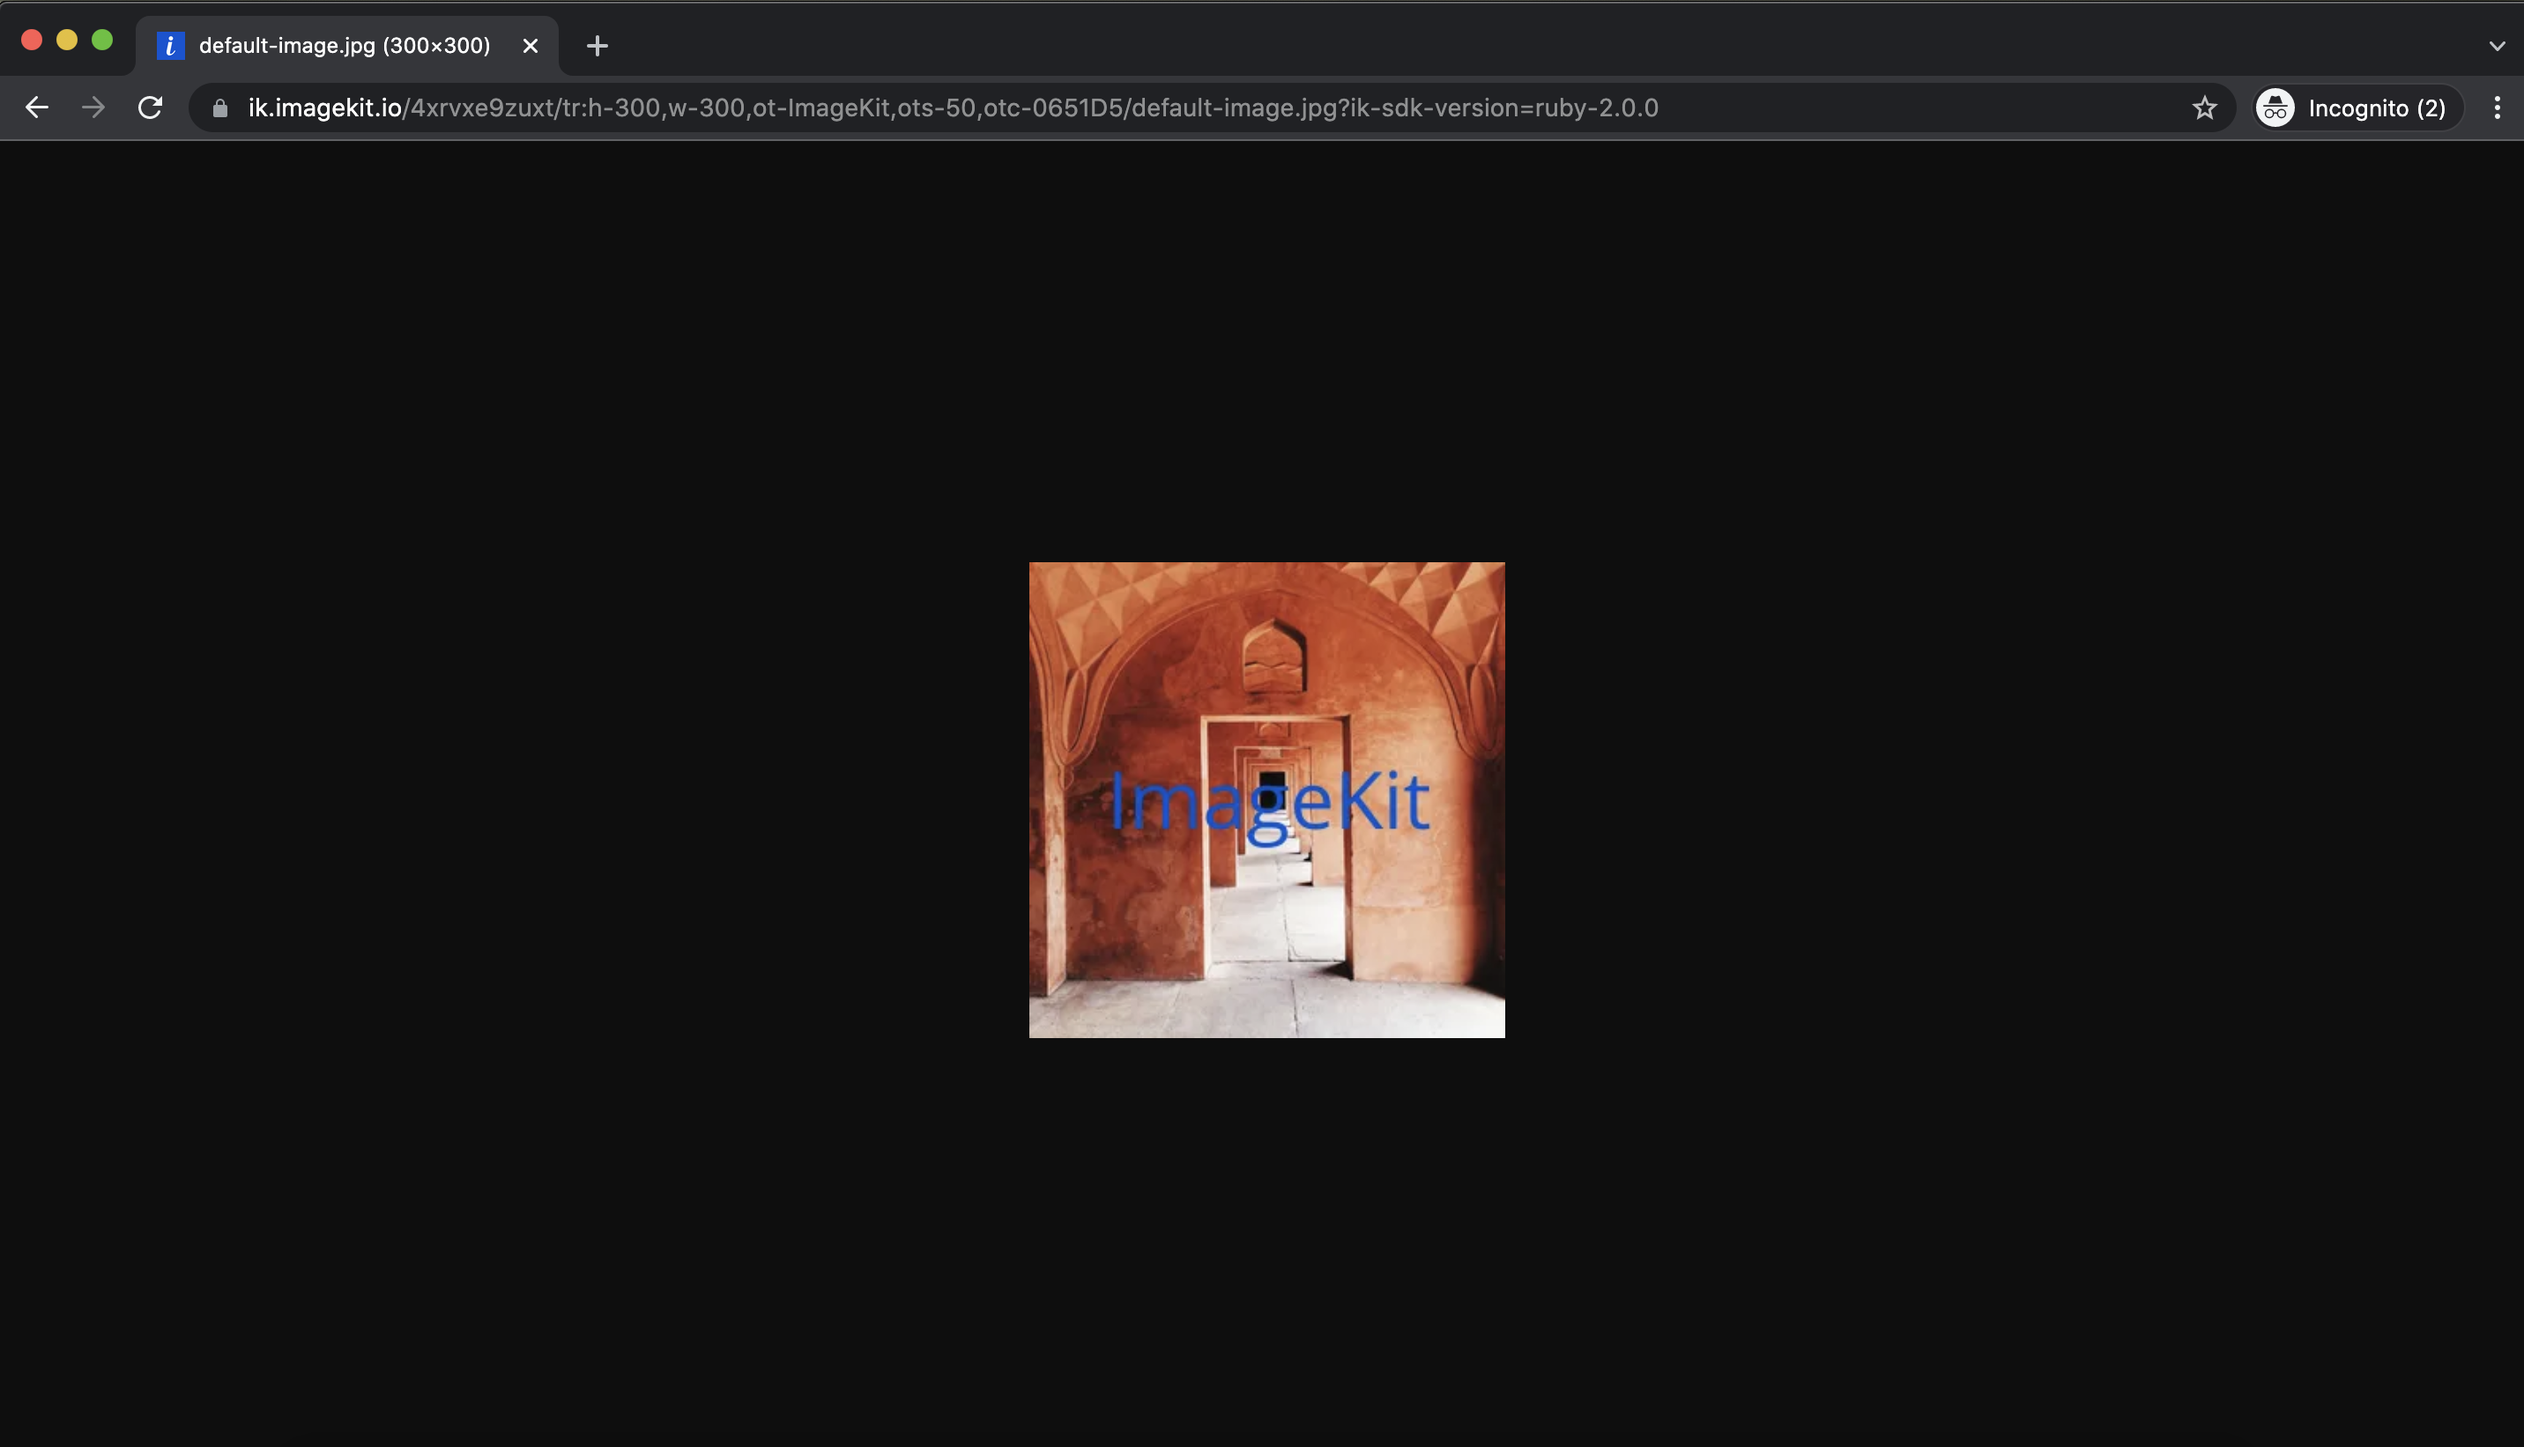
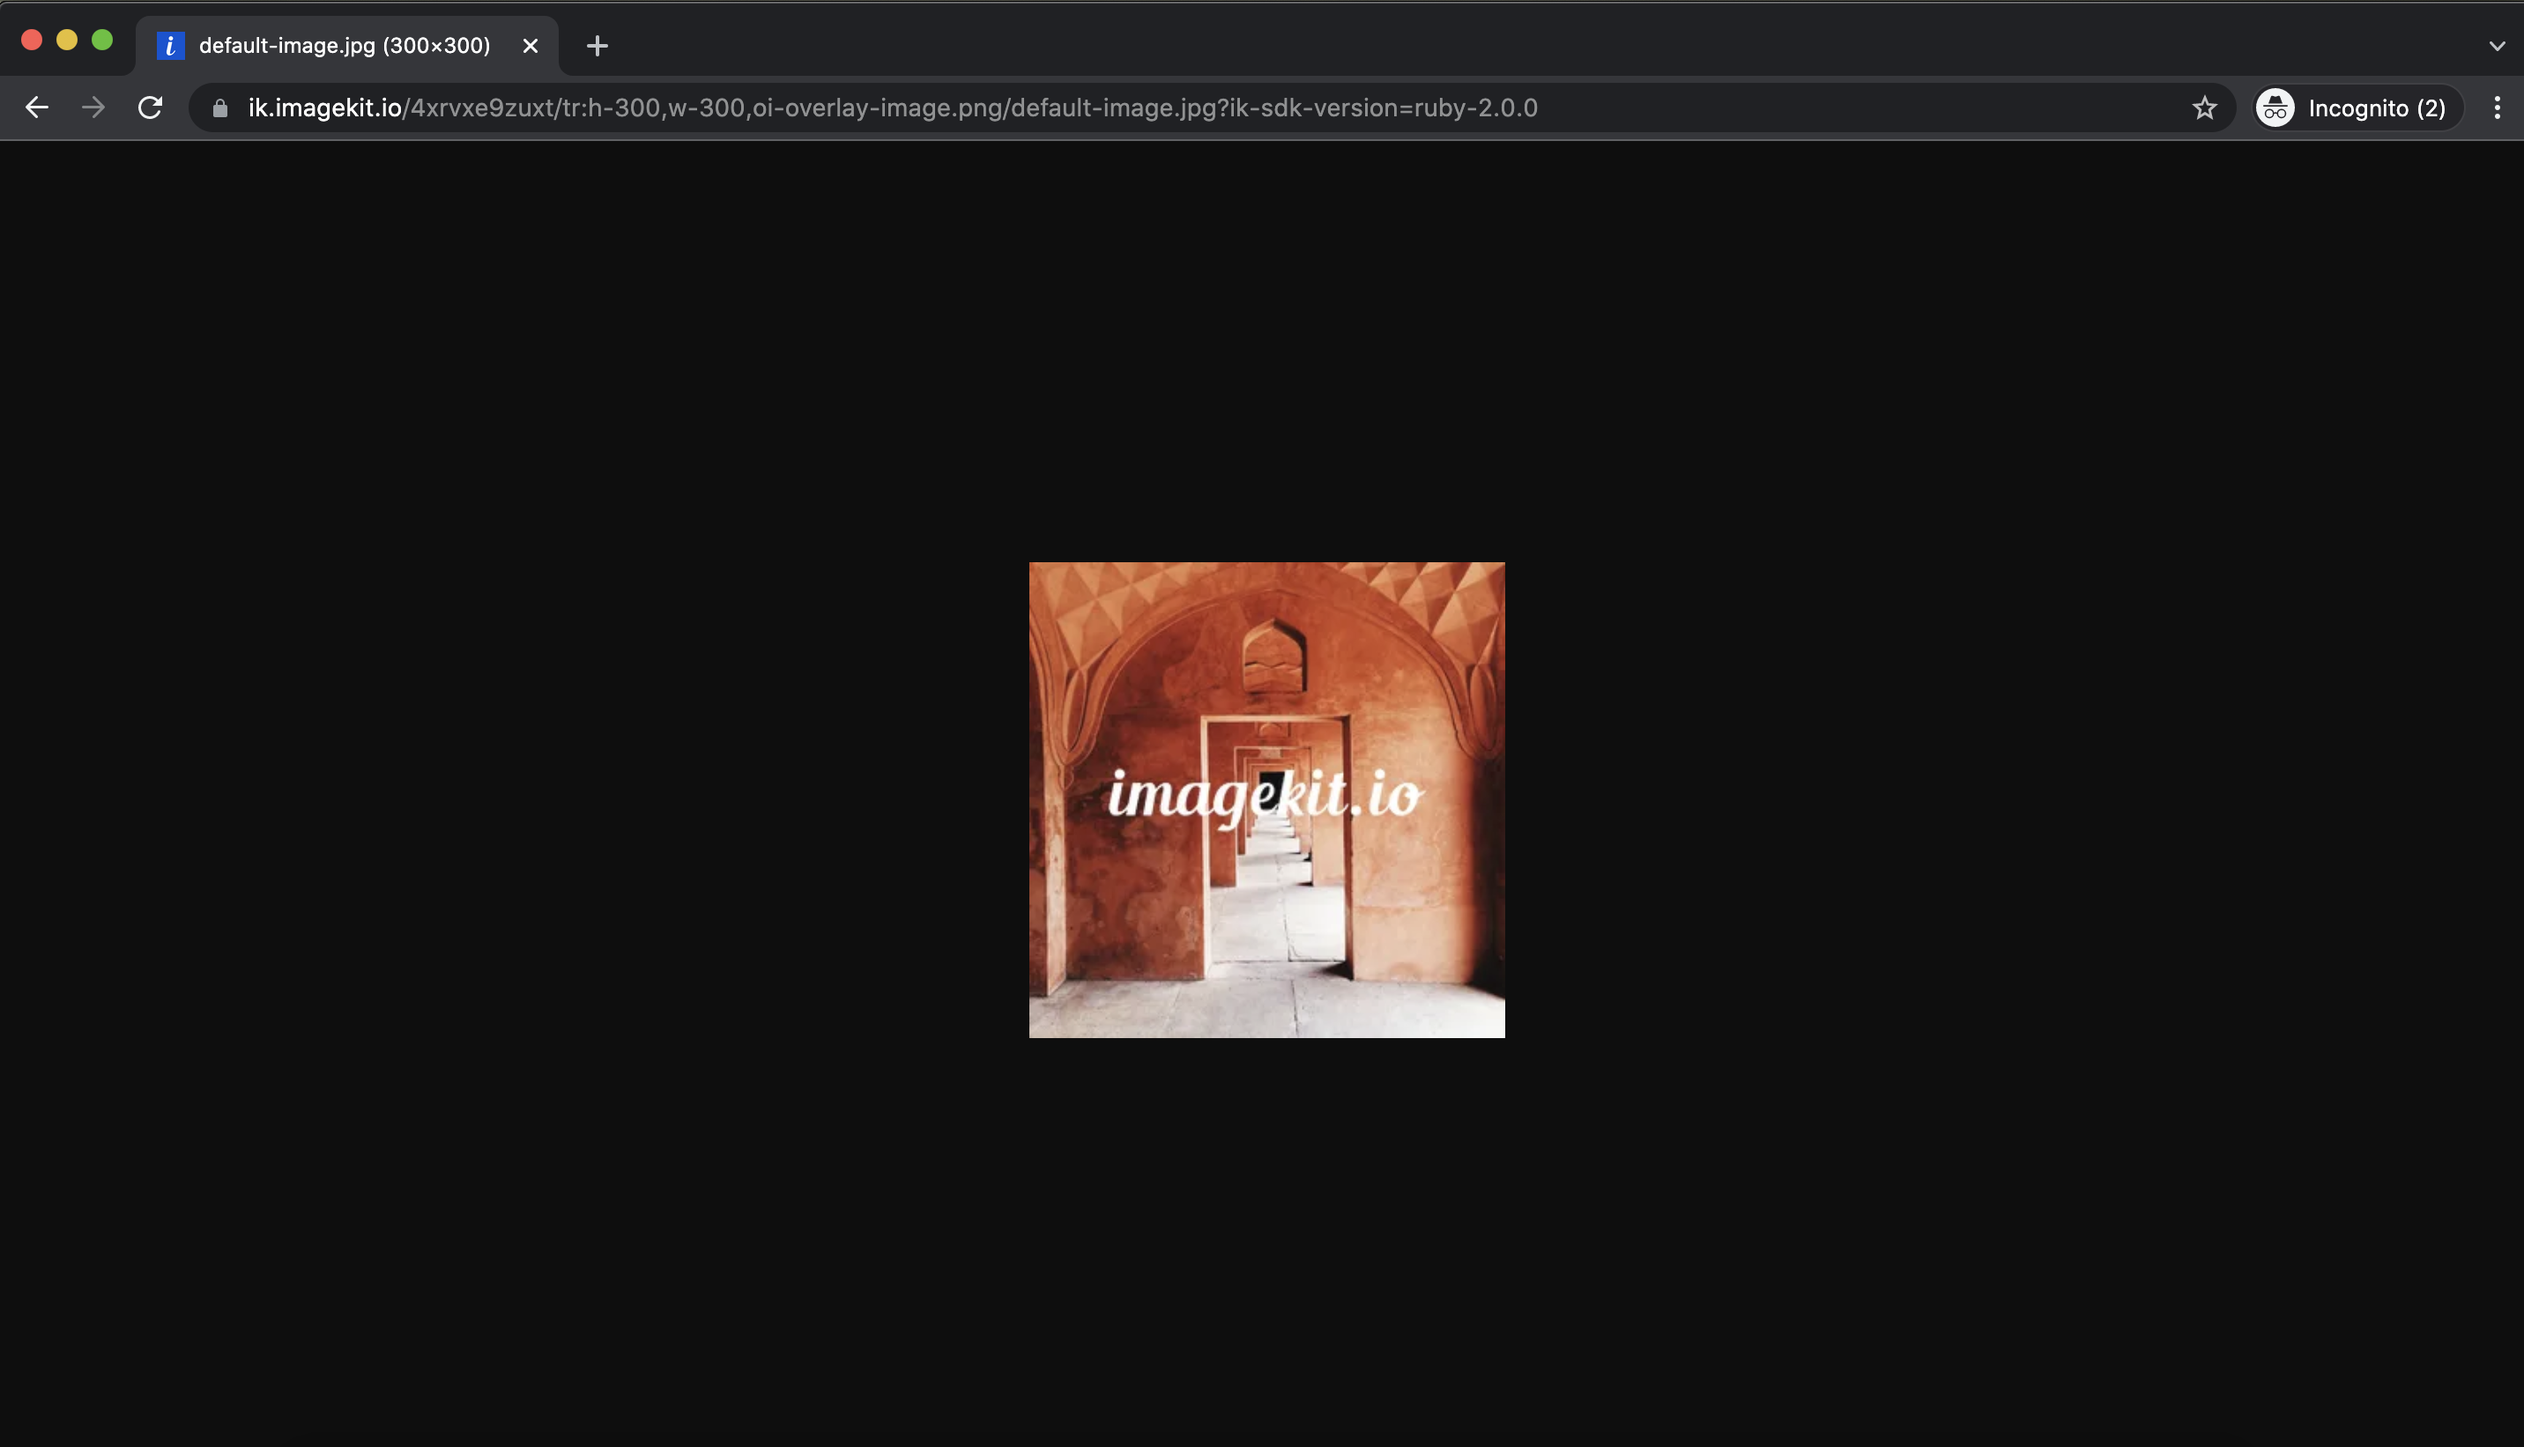
fix incorrect overlay image examples in ROR guide

Changed region(s): [[0.3108, 0.0621, 0.6526, 0.0932], [0.4351, 0.528, 0.5594, 0.5901]]

diff --git a/getting-started/quickstart-guides/ruby-guides/ruby_app.md b/getting-started/quickstart-guides/ruby-guides/ruby_app.md
@@ -224,7 +224,7 @@ https://ik.imagekit.io/demo/tr:h-300,w-300,ot-ImageKit,ots-50,otc-0651D5/default
 
 **Output Image:**
 
-![Text Overlay (300px \* 300px)](<../../../.gitbook/assets/ruby-app-with-overlay-image.png>)
+![Text Overlay (300px \* 300px)](<../../../.gitbook/assets/ruby-app-with-overlay-text.png>)
 
 #### **Image overlay**
 
